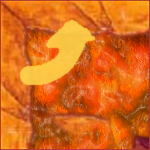
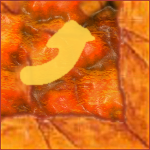
fog, lava, ice

diff --git a/roborally/js/catalog.js b/roborally/js/catalog.js
@@ -14,7 +14,7 @@
 import {
   ASSET_DIR, EDGE_N, EDGE_E, EDGE_S, EDGE_W, PHASES,
   Element, Floor, Overlay, Conveyor, Distributor, Ramp, Gear, Pit, Teleporter,
-  Station, Decal, Flow, Hazard, Wall, Ledge, WallJoin, Cannon, Mirror,
+  Station, Decal, Flow, Fog, Hazard, Wall, Ledge, WallJoin, Cannon, Mirror,
   Lettering, WallPortal,
 } from './elements.js';
 
@@ -71,6 +71,20 @@ define(Floor, {
   Water1_Special: { label: 'Deep water' },
 }, { washes: true });
 
+/*
+ * Ice, off Cold Room by tools/extract_cold.py. Two sheets of it are printed,
+ * which that board lays at random over its field, and two more carrying a ridge
+ * of brighter frost, which it runs along the sides the field stops at — those
+ * are the rim below, not sheets to lay a field from. A repair site or a chop
+ * shop standing on ice is printed under it, so the ice washes back over the
+ * top, the way water does but far more thickly.
+ */
+defineHidden(Floor, ['Ice1', 'Ice2'], { washes: 0.65 });
+
+/* the ridge of frost a field of ice is edged with; only the strip along the
+ * foot of each is ever drawn */
+defineHidden(Decal, ['Ice_Edge1', 'Ice_Edge2', 'Ice_Edge3']);
+
 /* Sludge is a floor, but it belongs with the waste rather than the floors. */
 define(Floor, {
   Radioactive_Waste: { label: 'Floor — toxic waste', category: 'Oil & waste' },
@@ -80,7 +94,11 @@ define(Floor, {
  * Lava, off Forge On by tools/extract_currents.py. Every printed lava square
  * carries a flow arrow, so the plain tile is one with its arrow painted out.
  */
-define(Floor, { Lava: { label: 'Floor — lava' } });
+defineHidden(Floor, { Lava: { label: 'Floor — lava' } });
+
+/* the rock a pool of lava banks up against, drawn along the sides the pool
+ * stops at; only the strip along the foot of each is ever used */
+defineHidden(Decal, ['Lava_Edge1', 'Lava_Edge2', 'Lava_Edge3']);
 
 /* one plain black floor is enough */
 defineHidden(Floor, ['Very_Black']);
@@ -501,6 +519,13 @@ define(Decal, [
   'Radioactive_Waste_Edge1', 'Radioactive_Waste_Edge2', 'Radioactive_Waste_Edge3',
 ]);
 
+/*
+ * Fog: white cloud on a transparent tile, drawn by hand rather than taken off a
+ * board. Four of them, offered one by one and as a brush that picks between
+ * them at a random quarter-turn, which is how a bank of it is laid.
+ */
+define(Fog, ['Fog1', 'Fog2', 'Fog3', 'Fog4'], { randomRot: true });
+
 /* the loose numbers, which the phase properties cover now */
 defineHidden(Decal, numbered('Number_#'));
 
@@ -624,10 +649,16 @@ export function mirrorTurn(file, rot) { return elementOf(file).mirrorTurn(rot); 
  */
 export const SUBMERGE = { alpha: 0.35 };
 
-/** The wash to draw back over `file`, or null if it is not standing in water. */
+/*
+ * The wash to draw back over `file`, or null if what it stands on does not wash
+ * over it. A floor says how thickly it washes: water lets a repair site read
+ * through it easily, ice hardly at all, which is how the printed boards have
+ * them.
+ */
 export function submergedBy(floorFile, file) {
-  return floorFile && elementOf(floorFile).washes && elementOf(file).submerges
-    ? SUBMERGE : null;
+  const washes = floorFile && elementOf(floorFile).washes;
+  if (!washes || !elementOf(file).submerges) return null;
+  return washes === true ? SUBMERGE : { alpha: washes };
 }
 
 /* ------------------------------------------------------------------ *
@@ -691,6 +722,23 @@ export const AUTO_AREAS = {
     cat: 'Oil & waste', bank: 48, thumb: 'Radioactive_Waste_End', spin: true,
     banks: ['Radioactive_Waste_Edge1', 'Radioactive_Waste_Edge2',
             'Radioactive_Waste_Edge3'],
+  },
+  /* lava banks against rock the same way, so it is painted the same way; its
+   * banks are shallower, being the rock that lies between two channels of it */
+  lava: {
+    label: 'Lava', floor: 'Lava',
+    cat: 'Floors', bank: 36, thumb: 'Lava', spin: true,
+    banks: ['Lava_Edge1', 'Lava_Edge2', 'Lava_Edge3'],
+  },
+  /*
+   * A field of ice is edged by a ridge of brighter frost, faint beside a bank
+   * of rock but there all the same. Two plain sheets of ice are printed, so a
+   * square takes one of them at random as well as a turn.
+   */
+  ice: {
+    label: 'Ice', floors: ['Ice1', 'Ice2'],
+    cat: 'Floors', bank: 26, thumb: 'Ice1', spin: true,
+    banks: ['Ice_Edge1', 'Ice_Edge2', 'Ice_Edge3'],
   },
 };
 
@@ -787,16 +835,21 @@ export function entry(o) {
   };
 }
 
-/* Hand-tuned entries that draw from several interchangeable graphics. */
+/*
+ * Hand-tuned entries that draw from several interchangeable graphics, laid at a
+ * random quarter-turn. The group is the floors unless one is named.
+ */
 const SMART_SPEC = [
   ['floor-plain',      'Floor — plain',        ['Floor1', 'Floor2', 'Floor3']],
   ['floor-rust',       'Floor — rust',         ['Rust1', 'Rust2', 'Rust3', 'Rust4']],
   ['floor-water',      'Floor — water',        ['Water1', 'Water2']],
   ['floor-padded',     'Floor — padded cell',  ['Padded_Green', 'Padded_Orange', 'Padded_Pink']],
+  ['fog',              'Fog',                  ['Fog1', 'Fog2', 'Fog3', 'Fog4'],
+   'Oil & waste'],
 ];
 
-const SMART_ENTRIES = SMART_SPEC.map(([id, label, files]) => entry({
-  id: 'smart:' + id, label, cat: 'Floors', layer: 'floor',
+const SMART_ENTRIES = SMART_SPEC.map(([id, label, files, cat]) => entry({
+  id: 'smart:' + id, label, cat: cat || 'Floors', layer: layerOf(files[0]),
   files, randomRot: true, smart: true,
 }));
 

diff --git a/roborally/js/elements.js b/roborally/js/elements.js
@@ -106,7 +106,7 @@ export class Element {
     depth: 0,            // how far it stands into its square
     angled: false,       // an angled mirror, which turns a beam
     window: null,        // a disc a conveyor underneath shows through
-    washes: false,       // a floor that washes back over what stands in it
+    washes: false,       // how thickly it washes back over what stands in it
     submerges: false,    // an element the water washes back over
     parts: null,         // [[dc, dr, name]] of the squares it also covers
     opens: null,         // [left, right, both] variants with the ends uncapped
@@ -257,6 +257,17 @@ export class WallPortal extends Teleporter {
 
 export class Station extends Overlay {
   static defaults = { category: 'Repair & special', slotKey: 'station', z: 50 };
+}
+
+/*
+ * A bank of fog: white cloud lying over whatever is on the square. It takes a
+ * slot of its own so it can lie over anything else, and comes last of all of
+ * them in the drawing order, since it hangs above the floor rather than on it.
+ * Laser beams are drawn after every square regardless, so one still shows
+ * through a bank.
+ */
+export class Fog extends Overlay {
+  static defaults = { category: 'Oil & waste', slotKey: 'fog', z: 92 };
 }
 
 export class Decal extends Overlay {

diff --git a/roborally/js/app.js b/roborally/js/app.js
@@ -448,10 +448,14 @@ function paintPit(c, r, kind, on) {
      * back rather than leaving a hole */
     const beneath = cell.floor && cell.floor.auto ? cell.floor.under || null : cell.floor || null;
     for (const k of PIT_KINDS) cell.items = cell.items.filter(p => p.auto !== k);
-    /* sludge has a pattern of its own, so each square of it is turned at
-     * random to keep a pool from looking tiled */
-    const spin = AUTO_AREAS[kind].spin ? (Math.random() * 4) | 0 : 0;
-    cell.floor = { file: AUTO_AREAS[kind].floor, rot: spin, auto: kind, under: beneath };
+    /* sludge, lava and ice each have a pattern of their own, so a square is
+     * turned at random — and where a set has several sheets of it, one of them
+     * is picked — to keep a field from looking tiled */
+    const set = AUTO_AREAS[kind];
+    const floors = set.floors || [set.floor];
+    const spin = set.spin ? (Math.random() * 4) | 0 : 0;
+    cell.floor = { file: floors[(Math.random() * floors.length) | 0],
+                   rot: spin, auto: kind, under: beneath };
   } else {
     cell.floor = cell.floor.under || null;
   }
